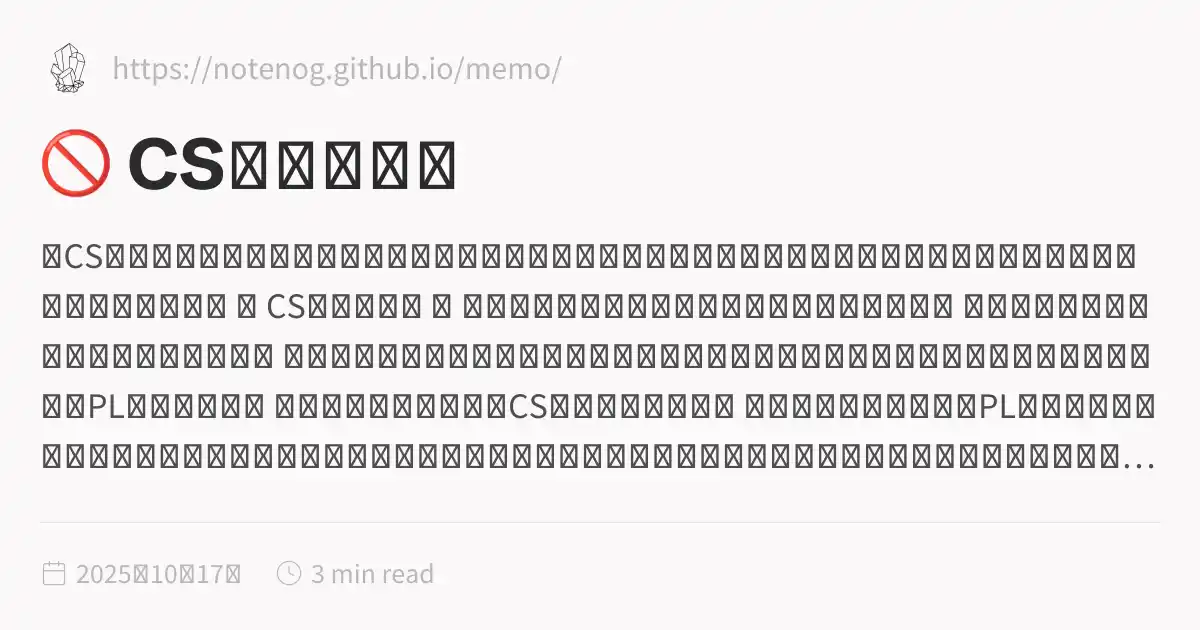
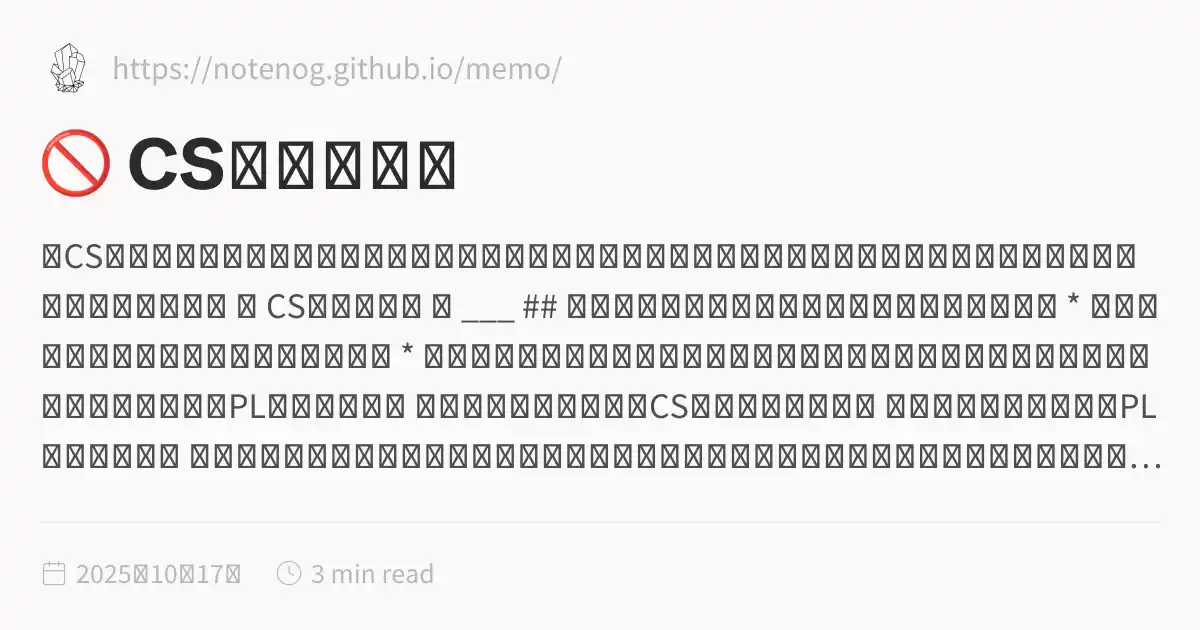
fix: Final push of clean assets with all content emitters disabled

Changed region(s): [[0.0617, 0.5429, 0.9867, 0.6635], [0.1542, 0.6937, 0.9558, 0.754], [0.37, 0.4524, 0.9867, 0.5127]]

diff --git a/docs/inSANe_old/index.html b/docs/inSANe_old/index.html
@@ -116,6 +116,6 @@ pre:hover > .expand-button {
   padding: 0 12px;
   font-size: 14px;
 }
[2 lines of base64/hex data omitted]
 </script><script type="module">function f(i,e){if(!i)return;function r(o){o.target===this&&(o.preventDefault(),o.stopPropagation(),e())}function t(o){o.key.startsWith("Esc")&&(o.preventDefault(),e())}i?.addEventListener("click",r),window.addCleanup(()=>i?.removeEventListener("click",r)),document.addEventListener("keydown",t),window.addCleanup(()=>document.removeEventListener("keydown",t))}function y(i){for(;i.firstChild;)i.removeChild(i.firstChild)}var h=class{constructor(e,r){this.container=e;this.content=r;this.setupEventListeners(),this.setupNavigationControls(),this.resetTransform()}isDragging=!1;startPan={x:0,y:0};currentPan={x:0,y:0};scale=1;MIN_SCALE=.5;MAX_SCALE=3;cleanups=[];setupEventListeners(){let e=this.onMouseDown.bind(this),r=this.onMouseMove.bind(this),t=this.onMouseUp.bind(this),o=this.resetTransform.bind(this);this.container.addEventListener("mousedown",e),document.addEventListener("mousemove",r),document.addEventListener("mouseup",t),window.addEventListener("resize",o),this.cleanups.push(()=>this.container.removeEventListener("mousedown",e),()=>document.removeEventListener("mousemove",r),()=>document.removeEventListener("mouseup",t),()=>window.removeEventListener("resize",o))}cleanup(){for(let e of this.cleanups)e()}setupNavigationControls(){let e=document.createElement("div");e.className="mermaid-controls";let r=this.createButton("+",()=>this.zoom(.1)),t=this.createButton("-",()=>this.zoom(-.1)),o=this.createButton("Reset",()=>this.resetTransform());e.appendChild(t),e.appendChild(o),e.appendChild(r),this.container.appendChild(e)}createButton(e,r){let t=document.createElement("button");return t.textContent=e,t.className="mermaid-control-button",t.addEventListener("click",r),window.addCleanup(()=>t.removeEventListener("click",r)),t}onMouseDown(e){e.button===0&&(this.isDragging=!0,this.startPan={x:e.clientX-this.currentPan.x,y:e.clientY-this.currentPan.y},this.container.style.cursor="grabbing")}onMouseMove(e){this.isDragging&&(e.preventDefault(),this.currentPan={x:e.clientX-this.startPan.x,y:e.clientY-this.startPan.y},this.updateTransform())}onMouseUp(){this.isDragging=!1,this.container.style.cursor="grab"}zoom(e){let r=Math.min(Math.max(this.scale+e,this.MIN_SCALE),this.MAX_SCALE),t=this.content.getBoundingClientRect(),o=t.width/2,n=t.height/2,c=r-this.scale;this.currentPan.x-=o*c,this.currentPan.y-=n*c,this.scale=r,this.updateTransform()}updateTransform(){this.content.style.transform=`translate(${this.currentPan.x}px, ${this.currentPan.y}px) scale(${this.scale})`}resetTransform(){this.scale=1;let e=this.content.querySelector("svg");this.currentPan={x:e.getBoundingClientRect().width/2,y:e.getBoundingClientRect().height/2},this.updateTransform()}},C=["--secondary","--tertiary","--gray","--light","--lightgray","--highlight","--dark","--darkgray","--codeFont"],E;document.addEventListener("nav",async()=>{let e=document.querySelector(".center").querySelectorAll("code.mermaid");if(e.length===0)return;E||=await import("https://cdnjs.cloudflare.com/ajax/libs/mermaid/11.4.0/mermaid.esm.min.mjs");let r=E.default,t=new WeakMap;for(let n of e)t.set(n,n.innerText);async function o(){for(let s of e){s.removeAttribute("data-processed");let a=t.get(s);a&&(s.innerHTML=a)}let n=C.reduce((s,a)=>(s[a]=window.getComputedStyle(document.documentElement).getPropertyValue(a),s),{}),c=document.documentElement.getAttribute("saved-theme")==="dark";r.initialize({startOnLoad:!1,securityLevel:"loose",theme:c?"dark":"base",themeVariables:{fontFamily:n["--codeFont"],primaryColor:n["--light"],primaryTextColor:n["--darkgray"],primaryBorderColor:n["--tertiary"],lineColor:n["--darkgray"],secondaryColor:n["--secondary"],tertiaryColor:n["--tertiary"],clusterBkg:n["--light"],edgeLabelBackground:n["--highlight"]}}),await r.run({nodes:e})}await o(),document.addEventListener("themechange",o),window.addCleanup(()=>document.removeEventListener("themechange",o));for(let n=0;n<e.length;n++){let v=function(){let g=l.querySelector("#mermaid-space"),m=l.querySelector(".mermaid-content");if(!m)return;y(m);let w=c.querySelector("svg").cloneNode(!0);m.appendChild(w),l.classList.add("active"),g.style.cursor="grab",u=new h(g,m)},M=function(){l.classList.remove("active"),u?.cleanup(),u=null},c=e[n],s=c.parentElement,a=s.querySelector(".clipboard-button"),d=s.querySelector(".expand-button"),p=window.getComputedStyle(a),L=a.offsetWidth+parseFloat(p.marginLeft||"0")+parseFloat(p.marginRight||"0");d.style.right=`calc(${L}px + 0.3rem)`,s.prepend(d);let l=s.querySelector("#mermaid-container");if(!l)return;let u=null;d.addEventListener("click",v),f(l,M),window.addCleanup(()=>{u?.cleanup(),d.removeEventListener("click",v)})}});
 </script><script src="https://cdn.jsdelivr.net/npm/katex@0.16.11/dist/contrib/copy-tex.min.js" type="application/javascript"></script><script src="../postscript.js" type="module"></script></html>

diff --git a/docs/inSANe_old/inSANe_old_cs.html b/docs/inSANe_old/inSANe_old_cs.html
@@ -1,5 +1,5 @@
 <!DOCTYPE html>
-<html lang="ja" dir="ltr"><head><title>🚫 CS秘匿ルール</title><meta charset="utf-8"/><link rel="preconnect" href="https://fonts.googleapis.com"/><link rel="preconnect" href="https://fonts.gstatic.com"/><link rel="stylesheet" href="https://fonts.googleapis.com/css2?family=Schibsted Grotesk:wght@400;700&amp;family=Source Sans Pro:ital,wght@0,400;0,600;1,400;1,600&amp;family=IBM Plex Mono:wght@400;600&amp;display=swap"/><link rel="preconnect" href="https://cdnjs.cloudflare.com" crossorigin="anonymous"/><meta name="viewport" content="width=device-width, initial-scale=1.0"/><meta name="og:site_name" content="MEMO"/><meta property="og:title" content="🚫 CS秘匿ルール"/><meta property="og:type" content="website"/><meta name="twitter:card" content="summary_large_image"/><meta name="twitter:title" content="🚫 CS秘匿ルール"/><meta name="twitter:description" content="「CS秘匿ルールを採用する」という記載のある場合にのみ起用します。記載のあるセッションの際は必ずご確認下さい。 《 CS秘匿ルール 》 【生命点・正気度・アイテムの公開について】 「生命点」「正気度」は全体公開です。 「所持アイテム」は非公開からスタートします。下記項目と同じく、公開タイミングはPLに委ねます。 【アビリティ・特技・CSの公開について】 公開タイミングを全てPLに委ねます。 公開する場合は特に宣言不要、メイン・雑談・ステルス問わずいつでもどうぞ。一部ずつ公開していっても構いません。 ただし、公開する場合は全PLに見えるよう公開して下さい。 一部のPLにだけ教える、という事はな..."/><meta property="og:description" content="「CS秘匿ルールを採用する」という記載のある場合にのみ起用します。記載のあるセッションの際は必ずご確認下さい。 《 CS秘匿ルール 》 【生命点・正気度・アイテムの公開について】 「生命点」「正気度」は全体公開です。 「所持アイテム」は非公開からスタートします。下記項目と同じく、公開タイミングはPLに委ねます。 【アビリティ・特技・CSの公開について】 公開タイミングを全てPLに委ねます。 公開する場合は特に宣言不要、メイン・雑談・ステルス問わずいつでもどうぞ。一部ずつ公開していっても構いません。 ただし、公開する場合は全PLに見えるよう公開して下さい。 一部のPLにだけ教える、という事はな..."/><meta property="og:image:alt" content="「CS秘匿ルールを採用する」という記載のある場合にのみ起用します。記載のあるセッションの際は必ずご確認下さい。 《 CS秘匿ルール 》 【生命点・正気度・アイテムの公開について】 「生命点」「正気度」は全体公開です。 「所持アイテム」は非公開からスタートします。下記項目と同じく、公開タイミングはPLに委ねます。 【アビリティ・特技・CSの公開について】 公開タイミングを全てPLに委ねます。 公開する場合は特に宣言不要、メイン・雑談・ステルス問わずいつでもどうぞ。一部ずつ公開していっても構いません。 ただし、公開する場合は全PLに見えるよう公開して下さい。 一部のPLにだけ教える、という事はな..."/><meta property="twitter:domain" content="https://notenog.github.io/memo/"/><meta property="og:url" content="https://https//notenog.github.io/memo/inSANe_old/inSANe_old_cs"/><meta property="twitter:url" content="https://https//notenog.github.io/memo/inSANe_old/inSANe_old_cs"/><link rel="icon" href="../static/icon.png"/><meta name="description" content="「CS秘匿ルールを採用する」という記載のある場合にのみ起用します。記載のあるセッションの際は必ずご確認下さい。 《 CS秘匿ルール 》 【生命点・正気度・アイテムの公開について】 「生命点」「正気度」は全体公開です。 「所持アイテム」は非公開からスタートします。下記項目と同じく、公開タイミングはPLに委ねます。 【アビリティ・特技・CSの公開について】 公開タイミングを全てPLに委ねます。 公開する場合は特に宣言不要、メイン・雑談・ステルス問わずいつでもどうぞ。一部ずつ公開していっても構いません。 ただし、公開する場合は全PLに見えるよう公開して下さい。 一部のPLにだけ教える、という事はな..."/><meta name="generator" content="Quartz"/><link href="../index.css" rel="stylesheet" type="text/css" spa-preserve/><style>.expand-button {
+<html lang="ja" dir="ltr"><head><title>🚫 CS秘匿ルール</title><meta charset="utf-8"/><link rel="preconnect" href="https://fonts.googleapis.com"/><link rel="preconnect" href="https://fonts.gstatic.com"/><link rel="stylesheet" href="https://fonts.googleapis.com/css2?family=Schibsted Grotesk:wght@400;700&amp;family=Source Sans Pro:ital,wght@0,400;0,600;1,400;1,600&amp;family=IBM Plex Mono:wght@400;600&amp;display=swap"/><link rel="preconnect" href="https://cdnjs.cloudflare.com" crossorigin="anonymous"/><meta name="viewport" content="width=device-width, initial-scale=1.0"/><meta name="og:site_name" content="MEMO"/><meta property="og:title" content="🚫 CS秘匿ルール"/><meta property="og:type" content="website"/><meta name="twitter:card" content="summary_large_image"/><meta name="twitter:title" content="🚫 CS秘匿ルール"/><meta name="twitter:description" content="「CS秘匿ルールを採用する」という記載のある場合にのみ起用します。記載のあるセッションの際は必ずご確認下さい。 《 CS秘匿ルール 》 ___ ## 【生命点・正気度・アイテムの公開について】 * 「生命点」「正気度」は全体公開です。 * 「所持アイテム」は非公開からスタートします。下記項目と同じく、公開タイミングはPLに委ねます。 【アビリティ・特技・CSの公開について】 公開タイミングを全てPLに委ねます。 公開する場合は特に宣言不要、メイン・雑談・ステルス問わずいつでもどうぞ。一部ずつ公開していっても構いません。 ただし、公開する場合は全PLに見えるよう公開して下さい。 一部のPLにだ..."/><meta property="og:description" content="「CS秘匿ルールを採用する」という記載のある場合にのみ起用します。記載のあるセッションの際は必ずご確認下さい。 《 CS秘匿ルール 》 ___ ## 【生命点・正気度・アイテムの公開について】 * 「生命点」「正気度」は全体公開です。 * 「所持アイテム」は非公開からスタートします。下記項目と同じく、公開タイミングはPLに委ねます。 【アビリティ・特技・CSの公開について】 公開タイミングを全てPLに委ねます。 公開する場合は特に宣言不要、メイン・雑談・ステルス問わずいつでもどうぞ。一部ずつ公開していっても構いません。 ただし、公開する場合は全PLに見えるよう公開して下さい。 一部のPLにだ..."/><meta property="og:image:alt" content="「CS秘匿ルールを採用する」という記載のある場合にのみ起用します。記載のあるセッションの際は必ずご確認下さい。 《 CS秘匿ルール 》 ___ ## 【生命点・正気度・アイテムの公開について】 * 「生命点」「正気度」は全体公開です。 * 「所持アイテム」は非公開からスタートします。下記項目と同じく、公開タイミングはPLに委ねます。 【アビリティ・特技・CSの公開について】 公開タイミングを全てPLに委ねます。 公開する場合は特に宣言不要、メイン・雑談・ステルス問わずいつでもどうぞ。一部ずつ公開していっても構いません。 ただし、公開する場合は全PLに見えるよう公開して下さい。 一部のPLにだ..."/><meta property="twitter:domain" content="https://notenog.github.io/memo/"/><meta property="og:url" content="https://https//notenog.github.io/memo/inSANe_old/inSANe_old_cs"/><meta property="twitter:url" content="https://https//notenog.github.io/memo/inSANe_old/inSANe_old_cs"/><link rel="icon" href="../static/icon.png"/><meta name="description" content="「CS秘匿ルールを採用する」という記載のある場合にのみ起用します。記載のあるセッションの際は必ずご確認下さい。 《 CS秘匿ルール 》 ___ ## 【生命点・正気度・アイテムの公開について】 * 「生命点」「正気度」は全体公開です。 * 「所持アイテム」は非公開からスタートします。下記項目と同じく、公開タイミングはPLに委ねます。 【アビリティ・特技・CSの公開について】 公開タイミングを全てPLに委ねます。 公開する場合は特に宣言不要、メイン・雑談・ステルス問わずいつでもどうぞ。一部ずつ公開していっても構いません。 ただし、公開する場合は全PLに見えるよう公開して下さい。 一部のPLにだ..."/><meta name="generator" content="Quartz"/><link href="../index.css" rel="stylesheet" type="text/css" spa-preserve/><style>.expand-button {
   position: absolute;
   display: flex;
   float: right;
@@ -128,13 +128,11 @@ pre:hover > .expand-button {
 </blockquote>
 <br/>
 <br/>
-<h1 sclass="no-underline" style="color:#DC2626;" id="-cs秘匿ルール-">《 CS秘匿ルール 》<a role="anchor" aria-hidden="true" tabindex="-1" data-no-popover="true" href="#-cs秘匿ルール-" class="internal"><svg width="18" height="18" viewBox="0 0 24 24" fill="none" stroke="currentColor" stroke-width="2" stroke-linecap="round" stroke-linejoin="round"><path d="M10 13a5 5 0 0 0 7.54.54l3-3a5 5 0 0 0-7.07-7.07l-1.72 1.71"></path><path d="M14 11a5 5 0 0 0-7.54-.54l-3 3a5 5 0 0 0 7.07 7.07l1.71-1.71"></path></svg></a></h1>
-<hr/>
-<h2 id="生命点正気度アイテムの公開について">【生命点・正気度・アイテムの公開について】<a role="anchor" aria-hidden="true" tabindex="-1" data-no-popover="true" href="#生命点正気度アイテムの公開について" class="internal"><svg width="18" height="18" viewBox="0 0 24 24" fill="none" stroke="currentColor" stroke-width="2" stroke-linecap="round" stroke-linejoin="round"><path d="M10 13a5 5 0 0 0 7.54.54l3-3a5 5 0 0 0-7.07-7.07l-1.72 1.71"></path><path d="M14 11a5 5 0 0 0-7.54-.54l-3 3a5 5 0 0 0 7.07 7.07l1.71-1.71"></path></svg></a></h2>
-<ul>
-<li>「生命点」「正気度」は全体公開です。</li>
-<li>「所持アイテム」は非公開からスタートします。<br/>下記項目と同じく、公開タイミングはPLに委ねます。</li>
-</ul>
+<h1 class="no-underline" style="color:#DC2626;" id="-cs秘匿ルール-">《 CS秘匿ルール 》<a role="anchor" aria-hidden="true" tabindex="-1" data-no-popover="true" href="#-cs秘匿ルール-" class="internal"><svg width="18" height="18" viewBox="0 0 24 24" fill="none" stroke="currentColor" stroke-width="2" stroke-linecap="round" stroke-linejoin="round"><path d="M10 13a5 5 0 0 0 7.54.54l3-3a5 5 0 0 0-7.07-7.07l-1.72 1.71"></path><path d="M14 11a5 5 0 0 0-7.54-.54l-3 3a5 5 0 0 0 7.07 7.07l1.71-1.71"></path></svg></a></h1>
+___
+## 【生命点・正気度・アイテムの公開について】
+* 「生命点」「正気度」は全体公開です。
+* 「所持アイテム」は非公開からスタートします。<br/>下記項目と同じく、公開タイミングはPLに委ねます。
 <br/>
 <h2 id="アビリティ特技csの公開について">【アビリティ・特技・CSの公開について】<a role="anchor" aria-hidden="true" tabindex="-1" data-no-popover="true" href="#アビリティ特技csの公開について" class="internal"><svg width="18" height="18" viewBox="0 0 24 24" fill="none" stroke="currentColor" stroke-width="2" stroke-linecap="round" stroke-linejoin="round"><path d="M10 13a5 5 0 0 0 7.54.54l3-3a5 5 0 0 0-7.07-7.07l-1.72 1.71"></path><path d="M14 11a5 5 0 0 0-7.54-.54l-3 3a5 5 0 0 0 7.07 7.07l1.71-1.71"></path></svg></a></h2>
 <ul>
@@ -182,6 +180,6 @@ pre:hover > .expand-button {
 </ul>
 </li>
 </ul>
-<p><br/><br/><br/></p></article><hr/><div class="page-footer"></div></div><div class="right sidebar"><div class="search"><button class="search-button"><svg role="img" xmlns="http://www.w3.org/2000/svg" viewBox="0 0 19.9 19.7"><title>Search</title><g class="search-path" fill="none"><path stroke-linecap="square" d="M18.5 18.3l-5.4-5.4"></path><circle cx="8" cy="8" r="7"></circle></g></svg><p>Search</p></button><div class="search-container"><div class="search-space"><input autocomplete="off" class="search-bar" name="search" type="text" aria-label="検索ワードを入力" placeholder="検索ワードを入力"/><div class="search-layout" data-preview="true"></div></div></div></div><div class="toc desktop-only"><button type="button" class="toc-header" aria-controls="toc-1" aria-expanded="true"><h3>📄 Contents</h3><svg xmlns="http://www.w3.org/2000/svg" width="24" height="24" viewBox="0 0 24 24" fill="none" stroke="currentColor" stroke-width="2" stroke-linecap="round" stroke-linejoin="round" class="fold"><polyline points="6 9 12 15 18 9"></polyline></svg></button><ul id="list-1" class="toc-content overflow"><li class="depth-0"><a href="#生命点正気度アイテムの公開について" data-for="生命点正気度アイテムの公開について">【生命点・正気度・アイテムの公開について】</a></li><li class="depth-0"><a href="#アビリティ特技csの公開について" data-for="アビリティ特技csの公開について">【アビリティ・特技・CSの公開について】</a></li><li class="depth-0"><a href="#アビリティの使用について" data-for="アビリティの使用について">【アビリティの使用について】</a></li><li class="overflow-end"></li></ul></div></div><footer class><p>Created with <a href="https://quartz.jzhao.xyz/">Quartz v4.5.2</a> © 2025</p><ul><li><a href="https://discordapp.com/users/318729033737043969">@disconog</a></li></ul></footer></div></div></body><script type="application/javascript">function n(){let t=this.parentElement;t.classList.toggle("is-collapsed");let e=t.getElementsByClassName("callout-content")[0];if(!e)return;let l=t.classList.contains("is-collapsed");e.style.gridTemplateRows=l?"0fr":"1fr"}function c(){let t=document.getElementsByClassName("callout is-collapsible");for(let e of t){let l=e.getElementsByClassName("callout-title")[0],s=e.getElementsByClassName("callout-content")[0];if(!l||!s)continue;l.addEventListener("click",n),window.addCleanup(()=>l.removeEventListener("click",n));let o=e.classList.contains("is-collapsed");s.style.gridTemplateRows=o?"0fr":"1fr"}}document.addEventListener("nav",c);
+<p><br/><br/><br/></p></article><hr/><div class="page-footer"></div></div><div class="right sidebar"><div class="search"><button class="search-button"><svg role="img" xmlns="http://www.w3.org/2000/svg" viewBox="0 0 19.9 19.7"><title>Search</title><g class="search-path" fill="none"><path stroke-linecap="square" d="M18.5 18.3l-5.4-5.4"></path><circle cx="8" cy="8" r="7"></circle></g></svg><p>Search</p></button><div class="search-container"><div class="search-space"><input autocomplete="off" class="search-bar" name="search" type="text" aria-label="検索ワードを入力" placeholder="検索ワードを入力"/><div class="search-layout" data-preview="true"></div></div></div></div><div class="toc desktop-only"><button type="button" class="toc-header" aria-controls="toc-1" aria-expanded="true"><h3>📄 Contents</h3><svg xmlns="http://www.w3.org/2000/svg" width="24" height="24" viewBox="0 0 24 24" fill="none" stroke="currentColor" stroke-width="2" stroke-linecap="round" stroke-linejoin="round" class="fold"><polyline points="6 9 12 15 18 9"></polyline></svg></button><ul id="list-1" class="toc-content overflow"><li class="depth-0"><a href="#アビリティ特技csの公開について" data-for="アビリティ特技csの公開について">【アビリティ・特技・CSの公開について】</a></li><li class="depth-0"><a href="#アビリティの使用について" data-for="アビリティの使用について">【アビリティの使用について】</a></li><li class="overflow-end"></li></ul></div></div><footer class><p>Created with <a href="https://quartz.jzhao.xyz/">Quartz v4.5.2</a> © 2025</p><ul><li><a href="https://discordapp.com/users/318729033737043969">@disconog</a></li></ul></footer></div></div></body><script type="application/javascript">function n(){let t=this.parentElement;t.classList.toggle("is-collapsed");let e=t.getElementsByClassName("callout-content")[0];if(!e)return;let l=t.classList.contains("is-collapsed");e.style.gridTemplateRows=l?"0fr":"1fr"}function c(){let t=document.getElementsByClassName("callout is-collapsible");for(let e of t){let l=e.getElementsByClassName("callout-title")[0],s=e.getElementsByClassName("callout-content")[0];if(!l||!s)continue;l.addEventListener("click",n),window.addCleanup(()=>l.removeEventListener("click",n));let o=e.classList.contains("is-collapsed");s.style.gridTemplateRows=o?"0fr":"1fr"}}document.addEventListener("nav",c);
 </script><script type="module">function f(i,e){if(!i)return;function r(o){o.target===this&&(o.preventDefault(),o.stopPropagation(),e())}function t(o){o.key.startsWith("Esc")&&(o.preventDefault(),e())}i?.addEventListener("click",r),window.addCleanup(()=>i?.removeEventListener("click",r)),document.addEventListener("keydown",t),window.addCleanup(()=>document.removeEventListener("keydown",t))}function y(i){for(;i.firstChild;)i.removeChild(i.firstChild)}var h=class{constructor(e,r){this.container=e;this.content=r;this.setupEventListeners(),this.setupNavigationControls(),this.resetTransform()}isDragging=!1;startPan={x:0,y:0};currentPan={x:0,y:0};scale=1;MIN_SCALE=.5;MAX_SCALE=3;cleanups=[];setupEventListeners(){let e=this.onMouseDown.bind(this),r=this.onMouseMove.bind(this),t=this.onMouseUp.bind(this),o=this.resetTransform.bind(this);this.container.addEventListener("mousedown",e),document.addEventListener("mousemove",r),document.addEventListener("mouseup",t),window.addEventListener("resize",o),this.cleanups.push(()=>this.container.removeEventListener("mousedown",e),()=>document.removeEventListener("mousemove",r),()=>document.removeEventListener("mouseup",t),()=>window.removeEventListener("resize",o))}cleanup(){for(let e of this.cleanups)e()}setupNavigationControls(){let e=document.createElement("div");e.className="mermaid-controls";let r=this.createButton("+",()=>this.zoom(.1)),t=this.createButton("-",()=>this.zoom(-.1)),o=this.createButton("Reset",()=>this.resetTransform());e.appendChild(t),e.appendChild(o),e.appendChild(r),this.container.appendChild(e)}createButton(e,r){let t=document.createElement("button");return t.textContent=e,t.className="mermaid-control-button",t.addEventListener("click",r),window.addCleanup(()=>t.removeEventListener("click",r)),t}onMouseDown(e){e.button===0&&(this.isDragging=!0,this.startPan={x:e.clientX-this.currentPan.x,y:e.clientY-this.currentPan.y},this.container.style.cursor="grabbing")}onMouseMove(e){this.isDragging&&(e.preventDefault(),this.currentPan={x:e.clientX-this.startPan.x,y:e.clientY-this.startPan.y},this.updateTransform())}onMouseUp(){this.isDragging=!1,this.container.style.cursor="grab"}zoom(e){let r=Math.min(Math.max(this.scale+e,this.MIN_SCALE),this.MAX_SCALE),t=this.content.getBoundingClientRect(),o=t.width/2,n=t.height/2,c=r-this.scale;this.currentPan.x-=o*c,this.currentPan.y-=n*c,this.scale=r,this.updateTransform()}updateTransform(){this.content.style.transform=`translate(${this.currentPan.x}px, ${this.currentPan.y}px) scale(${this.scale})`}resetTransform(){this.scale=1;let e=this.content.querySelector("svg");this.currentPan={x:e.getBoundingClientRect().width/2,y:e.getBoundingClientRect().height/2},this.updateTransform()}},C=["--secondary","--tertiary","--gray","--light","--lightgray","--highlight","--dark","--darkgray","--codeFont"],E;document.addEventListener("nav",async()=>{let e=document.querySelector(".center").querySelectorAll("code.mermaid");if(e.length===0)return;E||=await import("https://cdnjs.cloudflare.com/ajax/libs/mermaid/11.4.0/mermaid.esm.min.mjs");let r=E.default,t=new WeakMap;for(let n of e)t.set(n,n.innerText);async function o(){for(let s of e){s.removeAttribute("data-processed");let a=t.get(s);a&&(s.innerHTML=a)}let n=C.reduce((s,a)=>(s[a]=window.getComputedStyle(document.documentElement).getPropertyValue(a),s),{}),c=document.documentElement.getAttribute("saved-theme")==="dark";r.initialize({startOnLoad:!1,securityLevel:"loose",theme:c?"dark":"base",themeVariables:{fontFamily:n["--codeFont"],primaryColor:n["--light"],primaryTextColor:n["--darkgray"],primaryBorderColor:n["--tertiary"],lineColor:n["--darkgray"],secondaryColor:n["--secondary"],tertiaryColor:n["--tertiary"],clusterBkg:n["--light"],edgeLabelBackground:n["--highlight"]}}),await r.run({nodes:e})}await o(),document.addEventListener("themechange",o),window.addCleanup(()=>document.removeEventListener("themechange",o));for(let n=0;n<e.length;n++){let v=function(){let g=l.querySelector("#mermaid-space"),m=l.querySelector(".mermaid-content");if(!m)return;y(m);let w=c.querySelector("svg").cloneNode(!0);m.appendChild(w),l.classList.add("active"),g.style.cursor="grab",u=new h(g,m)},M=function(){l.classList.remove("active"),u?.cleanup(),u=null},c=e[n],s=c.parentElement,a=s.querySelector(".clipboard-button"),d=s.querySelector(".expand-button"),p=window.getComputedStyle(a),L=a.offsetWidth+parseFloat(p.marginLeft||"0")+parseFloat(p.marginRight||"0");d.style.right=`calc(${L}px + 0.3rem)`,s.prepend(d);let l=s.querySelector("#mermaid-container");if(!l)return;let u=null;d.addEventListener("click",v),f(l,M),window.addCleanup(()=>{u?.cleanup(),d.removeEventListener("click",v)})}});
 </script><script src="https://cdn.jsdelivr.net/npm/katex@0.16.11/dist/contrib/copy-tex.min.js" type="application/javascript"></script><script src="../postscript.js" type="module"></script></html>

diff --git a/docs/inSANe_old/inSANe_ond_kyo.html b/docs/inSANe_old/inSANe_ond_kyo.html
@@ -1,5 +1,5 @@
 <!DOCTYPE html>
-<html lang="ja" dir="ltr"><head><title>💃 共演者ルール</title><meta charset="utf-8"/><link rel="preconnect" href="https://fonts.googleapis.com"/><link rel="preconnect" href="https://fonts.gstatic.com"/><link rel="stylesheet" href="https://fonts.googleapis.com/css2?family=Schibsted Grotesk:wght@400;700&amp;family=Source Sans Pro:ital,wght@0,400;0,600;1,400;1,600&amp;family=IBM Plex Mono:wght@400;600&amp;display=swap"/><link rel="preconnect" href="https://cdnjs.cloudflare.com" crossorigin="anonymous"/><meta name="viewport" content="width=device-width, initial-scale=1.0"/><meta name="og:site_name" content="MEMO"/><meta property="og:title" content="💃 共演者ルール"/><meta property="og:type" content="website"/><meta name="twitter:card" content="summary_large_image"/><meta name="twitter:title" content="💃 共演者ルール"/><meta name="twitter:description" content="共演者(ゲスト)とは、PCと同等の動きをするNPCのことを指します。以下のものはインセインp228「NPC」、p229「共演者」の記述等参照のうえ、大々的に調整してあるハウスルールです。「共演者ルールを採用する」という記述のあるセッションの際は必ずご確認下さい。 《 共演者ルール 》 共演者はPCと同じようにCSを作成し特技・アビリティ・アイテムを使用する。 調査判定、感情判定、恐怖判定、戦闘等の通常PCが可能な行為判定や修正の全てを自発的に行う。 共演者の手番は全てのPCの行動の後に行う。あるいは、全員の手番をダイスで決定する場合は共演者もダイスロールに参加し順番を決定する。 共演者は「回..."/><meta property="og:description" content="共演者(ゲスト)とは、PCと同等の動きをするNPCのことを指します。以下のものはインセインp228「NPC」、p229「共演者」の記述等参照のうえ、大々的に調整してあるハウスルールです。「共演者ルールを採用する」という記述のあるセッションの際は必ずご確認下さい。 《 共演者ルール 》 共演者はPCと同じようにCSを作成し特技・アビリティ・アイテムを使用する。 調査判定、感情判定、恐怖判定、戦闘等の通常PCが可能な行為判定や修正の全てを自発的に行う。 共演者の手番は全てのPCの行動の後に行う。あるいは、全員の手番をダイスで決定する場合は共演者もダイスロールに参加し順番を決定する。 共演者は「回..."/><meta property="og:image:alt" content="共演者(ゲスト)とは、PCと同等の動きをするNPCのことを指します。以下のものはインセインp228「NPC」、p229「共演者」の記述等参照のうえ、大々的に調整してあるハウスルールです。「共演者ルールを採用する」という記述のあるセッションの際は必ずご確認下さい。 《 共演者ルール 》 共演者はPCと同じようにCSを作成し特技・アビリティ・アイテムを使用する。 調査判定、感情判定、恐怖判定、戦闘等の通常PCが可能な行為判定や修正の全てを自発的に行う。 共演者の手番は全てのPCの行動の後に行う。あるいは、全員の手番をダイスで決定する場合は共演者もダイスロールに参加し順番を決定する。 共演者は「回..."/><meta property="twitter:domain" content="https://notenog.github.io/memo/"/><meta property="og:url" content="https://https//notenog.github.io/memo/inSANe_old/inSANe_ond_kyo"/><meta property="twitter:url" content="https://https//notenog.github.io/memo/inSANe_old/inSANe_ond_kyo"/><link rel="icon" href="../static/icon.png"/><meta name="description" content="共演者(ゲスト)とは、PCと同等の動きをするNPCのことを指します。以下のものはインセインp228「NPC」、p229「共演者」の記述等参照のうえ、大々的に調整してあるハウスルールです。「共演者ルールを採用する」という記述のあるセッションの際は必ずご確認下さい。 《 共演者ルール 》 共演者はPCと同じようにCSを作成し特技・アビリティ・アイテムを使用する。 調査判定、感情判定、恐怖判定、戦闘等の通常PCが可能な行為判定や修正の全てを自発的に行う。 共演者の手番は全てのPCの行動の後に行う。あるいは、全員の手番をダイスで決定する場合は共演者もダイスロールに参加し順番を決定する。 共演者は「回..."/><meta name="generator" content="Quartz"/><link href="../index.css" rel="stylesheet" type="text/css" spa-preserve/><style>.expand-button {
+<html lang="ja" dir="ltr"><head><title>💃 共演者ルール</title><meta charset="utf-8"/><link rel="preconnect" href="https://fonts.googleapis.com"/><link rel="preconnect" href="https://fonts.gstatic.com"/><link rel="stylesheet" href="https://fonts.googleapis.com/css2?family=Schibsted Grotesk:wght@400;700&amp;family=Source Sans Pro:ital,wght@0,400;0,600;1,400;1,600&amp;family=IBM Plex Mono:wght@400;600&amp;display=swap"/><link rel="preconnect" href="https://cdnjs.cloudflare.com" crossorigin="anonymous"/><meta name="viewport" content="width=device-width, initial-scale=1.0"/><meta name="og:site_name" content="MEMO"/><meta property="og:title" content="💃 共演者ルール"/><meta property="og:type" content="website"/><meta name="twitter:card" content="summary_large_image"/><meta name="twitter:title" content="💃 共演者ルール"/><meta name="twitter:description" content="共演者(ゲスト)とは、PCと同等の動きをするNPCのことを指します。以下のものはインセインp228「NPC」、p229「共演者」の記述等参照のうえ、大々的に調整してあるハウスルールです。「共演者ルールを採用する」という記述のあるセッションの際は必ずご確認下さい。 《 共演者ルール 》 ___ * 共演者はPCと同じようにCSを作成し特技・アビリティ・アイテムを使用する。 * 調査判定、感情判定、恐怖判定、戦闘等の通常PCが可能な行為判定や修正の全てを自発的に行う。 * 共演者の手番は全てのPCの行動の後に行う。あるいは、全員の手番をダイスで決定する場合は共演者もダイスロールに参加し順番を決定..."/><meta property="og:description" content="共演者(ゲスト)とは、PCと同等の動きをするNPCのことを指します。以下のものはインセインp228「NPC」、p229「共演者」の記述等参照のうえ、大々的に調整してあるハウスルールです。「共演者ルールを採用する」という記述のあるセッションの際は必ずご確認下さい。 《 共演者ルール 》 ___ * 共演者はPCと同じようにCSを作成し特技・アビリティ・アイテムを使用する。 * 調査判定、感情判定、恐怖判定、戦闘等の通常PCが可能な行為判定や修正の全てを自発的に行う。 * 共演者の手番は全てのPCの行動の後に行う。あるいは、全員の手番をダイスで決定する場合は共演者もダイスロールに参加し順番を決定..."/><meta property="og:image:alt" content="共演者(ゲスト)とは、PCと同等の動きをするNPCのことを指します。以下のものはインセインp228「NPC」、p229「共演者」の記述等参照のうえ、大々的に調整してあるハウスルールです。「共演者ルールを採用する」という記述のあるセッションの際は必ずご確認下さい。 《 共演者ルール 》 ___ * 共演者はPCと同じようにCSを作成し特技・アビリティ・アイテムを使用する。 * 調査判定、感情判定、恐怖判定、戦闘等の通常PCが可能な行為判定や修正の全てを自発的に行う。 * 共演者の手番は全てのPCの行動の後に行う。あるいは、全員の手番をダイスで決定する場合は共演者もダイスロールに参加し順番を決定..."/><meta property="twitter:domain" content="https://notenog.github.io/memo/"/><meta property="og:url" content="https://https//notenog.github.io/memo/inSANe_old/inSANe_ond_kyo"/><meta property="twitter:url" content="https://https//notenog.github.io/memo/inSANe_old/inSANe_ond_kyo"/><link rel="icon" href="../static/icon.png"/><meta name="description" content="共演者(ゲスト)とは、PCと同等の動きをするNPCのことを指します。以下のものはインセインp228「NPC」、p229「共演者」の記述等参照のうえ、大々的に調整してあるハウスルールです。「共演者ルールを採用する」という記述のあるセッションの際は必ずご確認下さい。 《 共演者ルール 》 ___ * 共演者はPCと同じようにCSを作成し特技・アビリティ・アイテムを使用する。 * 調査判定、感情判定、恐怖判定、戦闘等の通常PCが可能な行為判定や修正の全てを自発的に行う。 * 共演者の手番は全てのPCの行動の後に行う。あるいは、全員の手番をダイスで決定する場合は共演者もダイスロールに参加し順番を決定..."/><meta name="generator" content="Quartz"/><link href="../index.css" rel="stylesheet" type="text/css" spa-preserve/><style>.expand-button {
   position: absolute;
   display: flex;
   float: right;
@@ -129,17 +129,15 @@ pre:hover > .expand-button {
 <br/>
 <br/>
 <h1 class="no-underline" style="color:#2663dc;" id="-共演者ルール-">《 共演者ルール 》<a role="anchor" aria-hidden="true" tabindex="-1" data-no-popover="true" href="#-共演者ルール-" class="internal"><svg width="18" height="18" viewBox="0 0 24 24" fill="none" stroke="currentColor" stroke-width="2" stroke-linecap="round" stroke-linejoin="round"><path d="M10 13a5 5 0 0 0 7.54.54l3-3a5 5 0 0 0-7.07-7.07l-1.72 1.71"></path><path d="M14 11a5 5 0 0 0-7.54-.54l-3 3a5 5 0 0 0 7.07 7.07l1.71-1.71"></path></svg></a></h1>
-<hr/>
-<ul>
-<li>共演者はPCと同じようにCSを作成し特技・アビリティ・アイテムを使用する。</li>
-<li>調査判定、感情判定、恐怖判定、戦闘等の通常PCが可能な行為判定や修正の全てを自発的に行う。</li>
-<li>共演者の手番は全てのPCの行動の後に行う。<br/>あるいは、全員の手番をダイスで決定する場合は共演者もダイスロールに参加し順番を決定する。</li>
-<li>共演者は「回想」を行う。(行わない場合は事前に告知する)</li>
-<li>クライマックスフェイズで共演者の生命力が０になった場合、それを行ったプレイヤーはその共演者を死亡させるかを選ぶことが出来る。</li>
-<li>共演者は死亡時の「攻撃」や「遺言」を使用することは出来ない。</li>
-<li>功績点「ロールプレイ」において、共演者は除外される。</li>
-<li>功績点「琴線」において、共演者を選ぶことは出来ない。</li>
-</ul>
+___
+* 共演者はPCと同じようにCSを作成し特技・アビリティ・アイテムを使用する。
+* 調査判定、感情判定、恐怖判定、戦闘等の通常PCが可能な行為判定や修正の全てを自発的に行う。
+* 共演者の手番は全てのPCの行動の後に行う。<br/>あるいは、全員の手番をダイスで決定する場合は共演者もダイスロールに参加し順番を決定する。
+* 共演者は「回想」を行う。(行わない場合は事前に告知する)
+* クライマックスフェイズで共演者の生命力が０になった場合、それを行ったプレイヤーはその共演者を死亡させるかを選ぶことが出来る。
+* 共演者は死亡時の「攻撃」や「遺言」を使用することは出来ない。
+* 功績点「ロールプレイ」において、共演者は除外される。
+* 功績点「琴線」において、共演者を選ぶことは出来ない。
 <p><br/><br/><br/></p></article><hr/><div class="page-footer"></div></div><div class="right sidebar"><div class="search"><button class="search-button"><svg role="img" xmlns="http://www.w3.org/2000/svg" viewBox="0 0 19.9 19.7"><title>Search</title><g class="search-path" fill="none"><path stroke-linecap="square" d="M18.5 18.3l-5.4-5.4"></path><circle cx="8" cy="8" r="7"></circle></g></svg><p>Search</p></button><div class="search-container"><div class="search-space"><input autocomplete="off" class="search-bar" name="search" type="text" aria-label="検索ワードを入力" placeholder="検索ワードを入力"/><div class="search-layout" data-preview="true"></div></div></div></div></div><footer class><p>Created with <a href="https://quartz.jzhao.xyz/">Quartz v4.5.2</a> © 2025</p><ul><li><a href="https://discordapp.com/users/318729033737043969">@disconog</a></li></ul></footer></div></div></body><script type="application/javascript">function n(){let t=this.parentElement;t.classList.toggle("is-collapsed");let e=t.getElementsByClassName("callout-content")[0];if(!e)return;let l=t.classList.contains("is-collapsed");e.style.gridTemplateRows=l?"0fr":"1fr"}function c(){let t=document.getElementsByClassName("callout is-collapsible");for(let e of t){let l=e.getElementsByClassName("callout-title")[0],s=e.getElementsByClassName("callout-content")[0];if(!l||!s)continue;l.addEventListener("click",n),window.addCleanup(()=>l.removeEventListener("click",n));let o=e.classList.contains("is-collapsed");s.style.gridTemplateRows=o?"0fr":"1fr"}}document.addEventListener("nav",c);
 </script><script type="module">function f(i,e){if(!i)return;function r(o){o.target===this&&(o.preventDefault(),o.stopPropagation(),e())}function t(o){o.key.startsWith("Esc")&&(o.preventDefault(),e())}i?.addEventListener("click",r),window.addCleanup(()=>i?.removeEventListener("click",r)),document.addEventListener("keydown",t),window.addCleanup(()=>document.removeEventListener("keydown",t))}function y(i){for(;i.firstChild;)i.removeChild(i.firstChild)}var h=class{constructor(e,r){this.container=e;this.content=r;this.setupEventListeners(),this.setupNavigationControls(),this.resetTransform()}isDragging=!1;startPan={x:0,y:0};currentPan={x:0,y:0};scale=1;MIN_SCALE=.5;MAX_SCALE=3;cleanups=[];setupEventListeners(){let e=this.onMouseDown.bind(this),r=this.onMouseMove.bind(this),t=this.onMouseUp.bind(this),o=this.resetTransform.bind(this);this.container.addEventListener("mousedown",e),document.addEventListener("mousemove",r),document.addEventListener("mouseup",t),window.addEventListener("resize",o),this.cleanups.push(()=>this.container.removeEventListener("mousedown",e),()=>document.removeEventListener("mousemove",r),()=>document.removeEventListener("mouseup",t),()=>window.removeEventListener("resize",o))}cleanup(){for(let e of this.cleanups)e()}setupNavigationControls(){let e=document.createElement("div");e.className="mermaid-controls";let r=this.createButton("+",()=>this.zoom(.1)),t=this.createButton("-",()=>this.zoom(-.1)),o=this.createButton("Reset",()=>this.resetTransform());e.appendChild(t),e.appendChild(o),e.appendChild(r),this.container.appendChild(e)}createButton(e,r){let t=document.createElement("button");return t.textContent=e,t.className="mermaid-control-button",t.addEventListener("click",r),window.addCleanup(()=>t.removeEventListener("click",r)),t}onMouseDown(e){e.button===0&&(this.isDragging=!0,this.startPan={x:e.clientX-this.currentPan.x,y:e.clientY-this.currentPan.y},this.container.style.cursor="grabbing")}onMouseMove(e){this.isDragging&&(e.preventDefault(),this.currentPan={x:e.clientX-this.startPan.x,y:e.clientY-this.startPan.y},this.updateTransform())}onMouseUp(){this.isDragging=!1,this.container.style.cursor="grab"}zoom(e){let r=Math.min(Math.max(this.scale+e,this.MIN_SCALE),this.MAX_SCALE),t=this.content.getBoundingClientRect(),o=t.width/2,n=t.height/2,c=r-this.scale;this.currentPan.x-=o*c,this.currentPan.y-=n*c,this.scale=r,this.updateTransform()}updateTransform(){this.content.style.transform=`translate(${this.currentPan.x}px, ${this.currentPan.y}px) scale(${this.scale})`}resetTransform(){this.scale=1;let e=this.content.querySelector("svg");this.currentPan={x:e.getBoundingClientRect().width/2,y:e.getBoundingClientRect().height/2},this.updateTransform()}},C=["--secondary","--tertiary","--gray","--light","--lightgray","--highlight","--dark","--darkgray","--codeFont"],E;document.addEventListener("nav",async()=>{let e=document.querySelector(".center").querySelectorAll("code.mermaid");if(e.length===0)return;E||=await import("https://cdnjs.cloudflare.com/ajax/libs/mermaid/11.4.0/mermaid.esm.min.mjs");let r=E.default,t=new WeakMap;for(let n of e)t.set(n,n.innerText);async function o(){for(let s of e){s.removeAttribute("data-processed");let a=t.get(s);a&&(s.innerHTML=a)}let n=C.reduce((s,a)=>(s[a]=window.getComputedStyle(document.documentElement).getPropertyValue(a),s),{}),c=document.documentElement.getAttribute("saved-theme")==="dark";r.initialize({startOnLoad:!1,securityLevel:"loose",theme:c?"dark":"base",themeVariables:{fontFamily:n["--codeFont"],primaryColor:n["--light"],primaryTextColor:n["--darkgray"],primaryBorderColor:n["--tertiary"],lineColor:n["--darkgray"],secondaryColor:n["--secondary"],tertiaryColor:n["--tertiary"],clusterBkg:n["--light"],edgeLabelBackground:n["--highlight"]}}),await r.run({nodes:e})}await o(),document.addEventListener("themechange",o),window.addCleanup(()=>document.removeEventListener("themechange",o));for(let n=0;n<e.length;n++){let v=function(){let g=l.querySelector("#mermaid-space"),m=l.querySelector(".mermaid-content");if(!m)return;y(m);let w=c.querySelector("svg").cloneNode(!0);m.appendChild(w),l.classList.add("active"),g.style.cursor="grab",u=new h(g,m)},M=function(){l.classList.remove("active"),u?.cleanup(),u=null},c=e[n],s=c.parentElement,a=s.querySelector(".clipboard-button"),d=s.querySelector(".expand-button"),p=window.getComputedStyle(a),L=a.offsetWidth+parseFloat(p.marginLeft||"0")+parseFloat(p.marginRight||"0");d.style.right=`calc(${L}px + 0.3rem)`,s.prepend(d);let l=s.querySelector("#mermaid-container");if(!l)return;let u=null;d.addEventListener("click",v),f(l,M),window.addCleanup(()=>{u?.cleanup(),d.removeEventListener("click",v)})}});
 </script><script src="https://cdn.jsdelivr.net/npm/katex@0.16.11/dist/contrib/copy-tex.min.js" type="application/javascript"></script><script src="../postscript.js" type="module"></script></html>

diff --git a/content/inSANe_old/inSANe_ond_kyo.md b/content/inSANe_old/inSANe_ond_kyo.md
@@ -13,7 +13,6 @@ ___
 <br>
 
 <h1 class="no-underline" style="color: #2663dc;">《 共演者ルール 》</h1>
-
 ___
 * 共演者はPCと同じようにCSを作成し特技・アビリティ・アイテムを使用する。
 * 調査判定、感情判定、恐怖判定、戦闘等の通常PCが可能な行為判定や修正の全てを自発的に行う。

diff --git a/content/inSANe_old/inSANe_old_cs.md b/content/inSANe_old/inSANe_old_cs.md
@@ -12,8 +12,7 @@ ___
 <br>
 <br>
 
-<h1 sclass="no-underline" style="color: #DC2626;">《 CS秘匿ルール 》</h1>
-
+<h1 class="no-underline" style="color: #DC2626;">《 CS秘匿ルール 》</h1>
 ___
 ## 【生命点・正気度・アイテムの公開について】
 * 「生命点」「正気度」は全体公開です。
